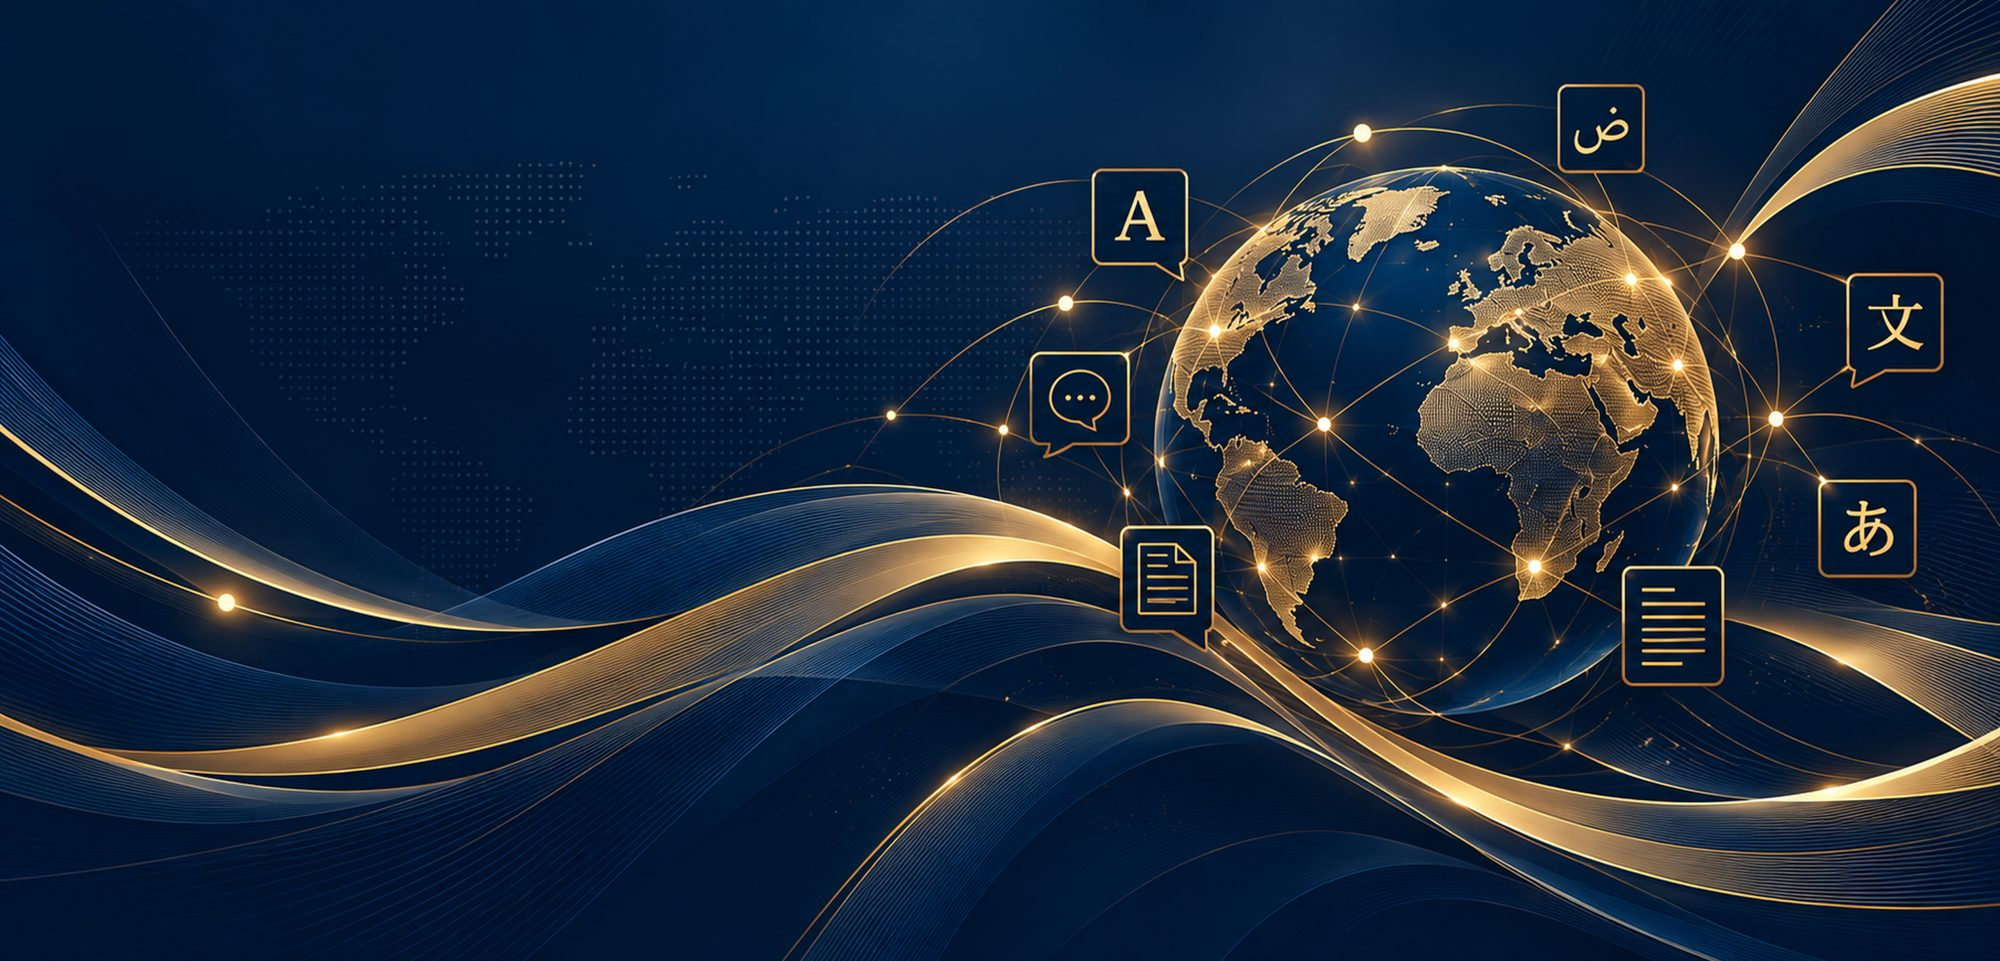
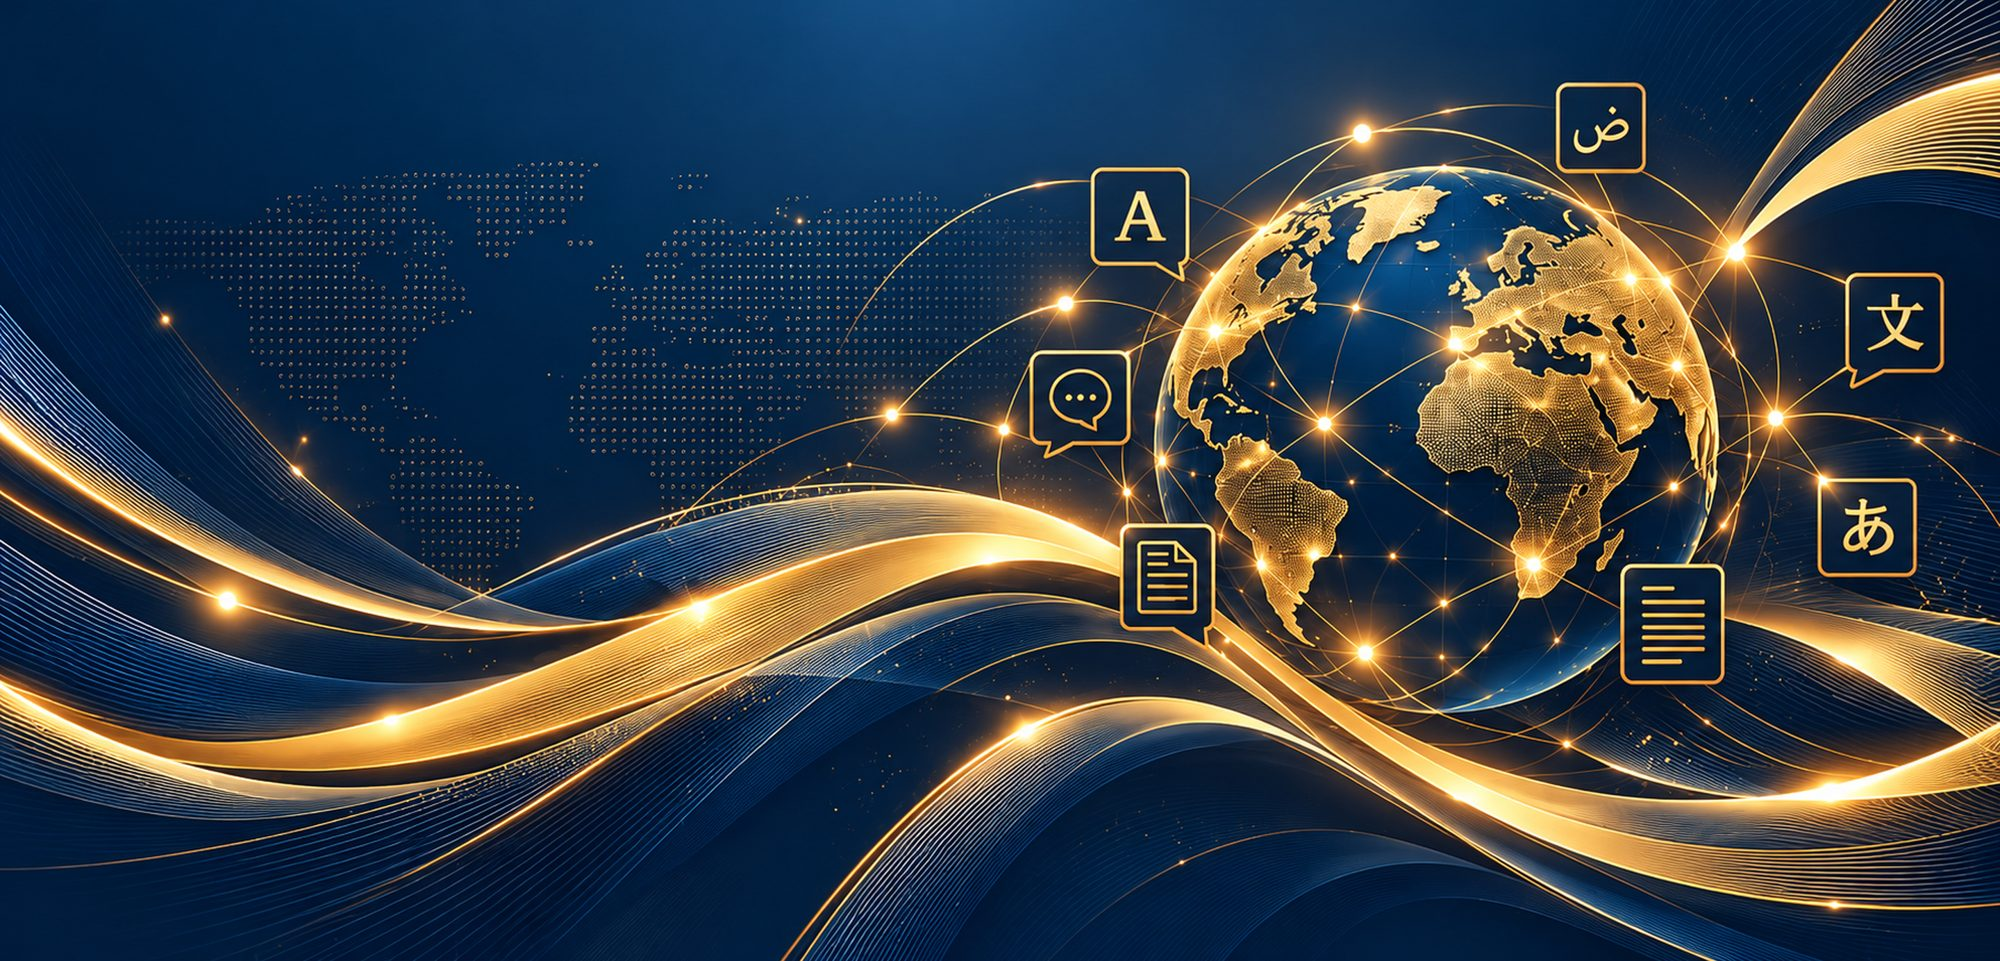
Add files via upload

diff --git a/index.html b/index.html
@@ -73,11 +73,9 @@ a,button,summary,input,select{-webkit-tap-highlight-color:transparent}
 .dA .a-util{background:var(--a-navy);color:var(--a-onnavy-mut);font-size:.8125rem}
 .dA .a-util .w{display:flex;justify-content:space-between;gap:16px;padding-block:8px}
 .dA .a-nav{position:sticky;top:calc(var(--sw) + env(safe-area-inset-top,0px));z-index:40;background:var(--a-surf);border-bottom:1px solid var(--a-line)}
-.dA .a-navin{display:flex;align-items:center;gap:28px;min-height:70px}
-.dA .a-logo{display:flex;align-items:center;gap:10px;color:var(--a-ink);text-decoration:none}
-.dA .a-logo svg{color:var(--a-brass)}
-.dA .a-lt b{display:block;font-family:Newsreader,Georgia,serif;font-weight:600;font-size:1.5rem;line-height:1}
-.dA .a-lt small{display:block;margin-top:3px;font-size:.6875rem;color:var(--a-mut);letter-spacing:.04em}
+.dA .a-navin{display:flex;align-items:center;gap:28px;min-height:96px;padding-block:8px}
+.dA .a-logo{display:flex;align-items:center;text-decoration:none}
+.dA .a-logo img{display:block;height:80px;width:auto}
 .dA .a-links{display:flex;gap:26px;margin-left:auto;font-size:.9375rem}
 .dA .a-links a{color:var(--a-ink);text-decoration:none;padding-block:6px;border-bottom:1px solid transparent}
 .dA .a-links a:hover{border-color:var(--a-brass)}
@@ -162,6 +160,7 @@ a,button,summary,input,select{-webkit-tap-highlight-color:transparent}
   .dA .a-facts{margin-top:-52px}
 }
 @media (max-width:600px){
+  .dA .a-logo img{height:62px}
   .dA .a-svc,.dA .a-vals,.dA .a-why,.dB .b-why,.dC .c-why{grid-template-columns:minmax(0,1fr)}
   .qf .two{grid-template-columns:minmax(0,1fr)}
   .ngrid{grid-template-columns:minmax(0,1fr)}
@@ -296,7 +295,7 @@ const WA_URL="https://wa.me/"+WA.replace(/\D/g,"");
 function renderA(){const p="a";return `
 <div class="a-util"><div class="w"><span>${EMAIL}</span><span>WhatsApp ${WA}</span></div></div>
 <header class="a-nav nav"><div class="w a-navin">
-  <a class="a-logo" href="#a-top" data-top aria-label="Qurtoba Translation Services, back to top"><svg viewBox="0 0 28 34" width="26" height="32" aria-hidden="true"><path d="M3 32V13a11 11 0 0 1 22 0v19" fill="none" stroke="currentColor" stroke-width="2"/><path d="M9 32V14a5 5 0 0 1 10 0v18" fill="none" stroke="currentColor" stroke-width="1.5"/></svg><span class="a-lt"><b>Qurtoba</b><small>Translation Services</small></span></a>
+  <a class="a-logo" href="#a-top" data-top aria-label="Qurtoba Translation Services, back to top"><img src="images/logo.png" alt="Qurtoba Translation Services" width="125" height="80"></a>
   <nav class="a-links" aria-label="Primary">${navLinks(p)}</nav>
   <a class="btn a-navcta" href="#a-contact" data-go>Request a quote</a>
   <button class="navbtn" type="button" aria-label="Menu" aria-expanded="false"><i></i><i></i><i></i></button>

diff --git a/README.md b/README.md
@@ -14,3 +14,4 @@ Static homepage (Direction A, "Ink & Brass"). No build step: `index.html` plus t
 - Page text comes from the client's requirements document.
 - Fonts load from Google Fonts (Newsreader and Public Sans).
 - Hero image: `images/hero-desktop.jpg` (wide screens) and `images/hero-mobile.jpg` (phones). To change it, replace these two files with the same names, or edit the `url(...)` lines of `.a-hero` in `index.html`.
+- Logo: `images/logo.png` (header). Replace the file with the same name to change it.
